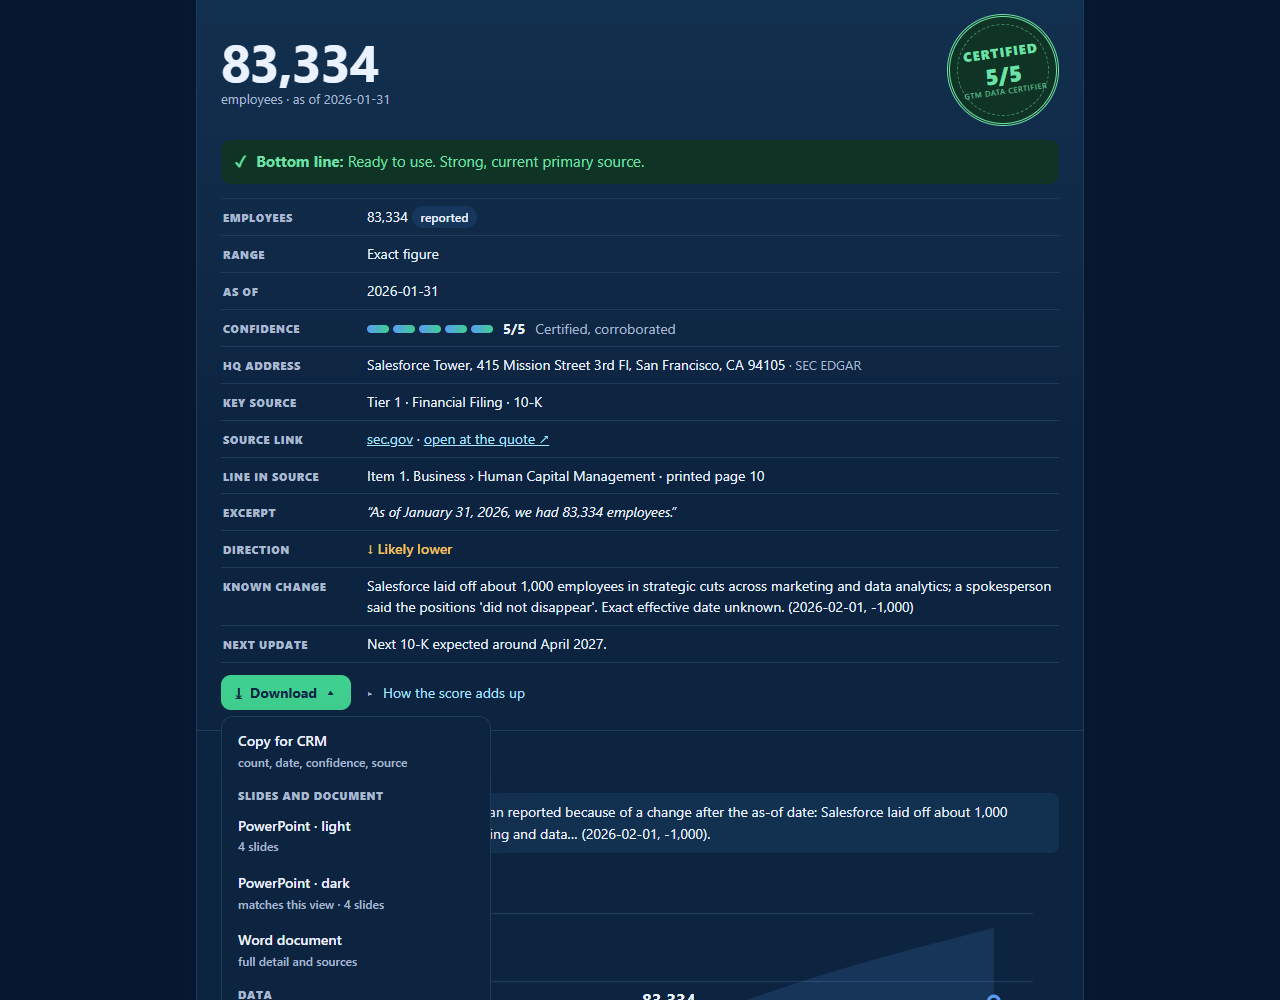
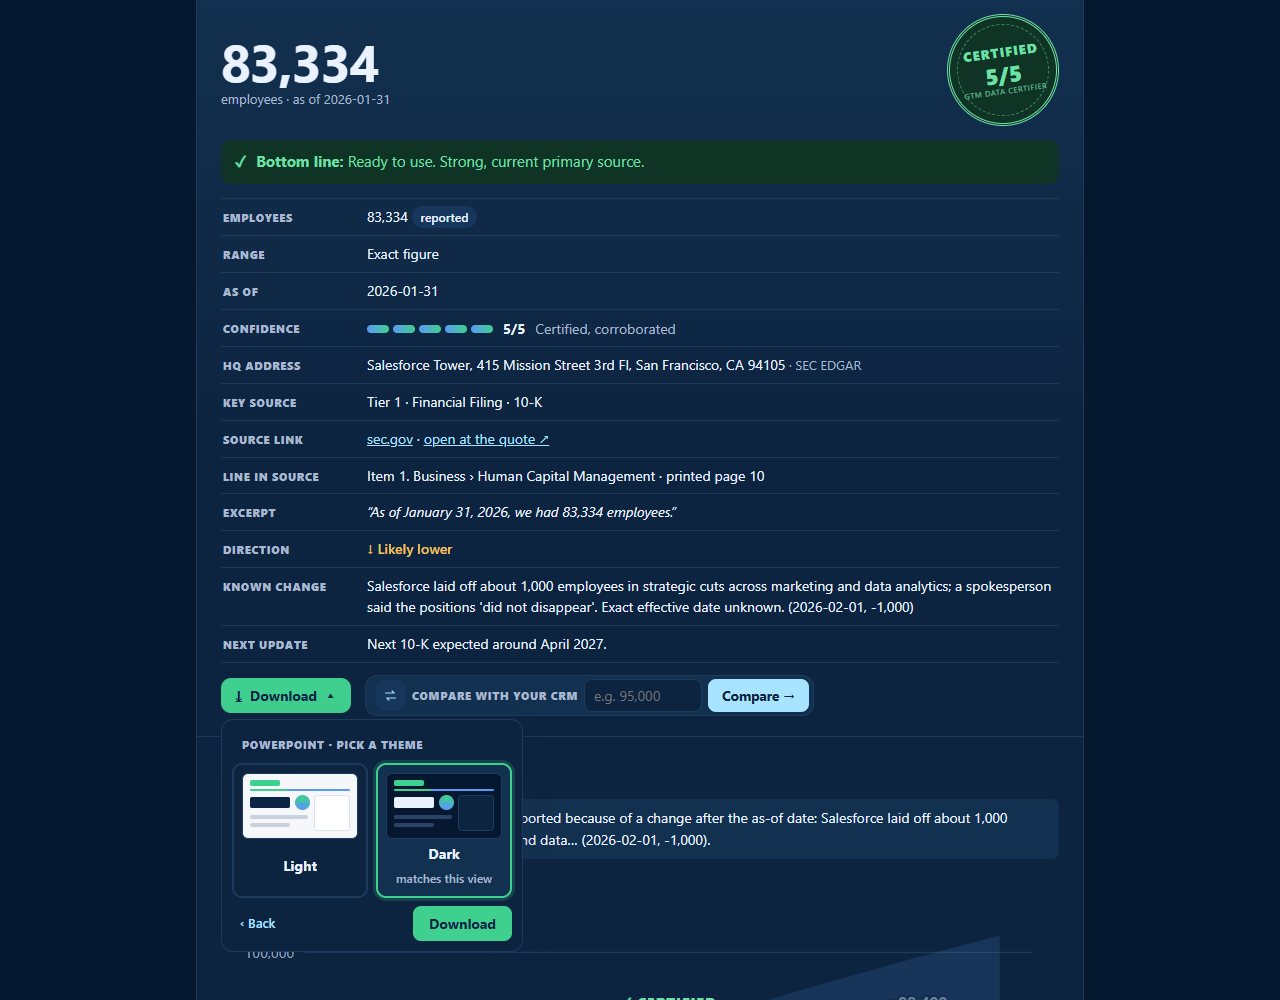
Download menu: short list (PowerPoint, CSV, JSON, Copy for CRM, Word greyed out) with a second step for theme previews or CSV file

diff --git a/src/certifier/card.py b/src/certifier/card.py
@@ -223,6 +223,37 @@ CARD_CSS = r"""
   padding: 7px 10px; border-radius: 8px; font-size: 14px; font-weight: 600; }
 .cert .dl-items button:hover, .cert .dl-items button:focus-visible { background: var(--soft); }
 .cert .dl-hint { font-size: 12px; font-weight: 500; color: var(--muted); }
+.cert .dl-label { display: flex; align-items: center; justify-content: space-between; gap: 8px; }
+.cert .dl-more { color: var(--muted); font-size: 16px; line-height: 1; }
+.cert .dl-items button.dl-disabled { opacity: .45; cursor: not-allowed; }
+.cert .dl-items button.dl-disabled:hover { background: transparent; }
+.cert .dl-items.step2 { min-width: 300px; gap: 8px; padding: 10px; }
+.cert .dl-choices { display: grid; grid-template-columns: 1fr 1fr; gap: 8px; }
+.cert .dl-items .dl-choice { display: grid; justify-items: center; gap: 4px; padding: 8px; border: 2px solid var(--line); border-radius: 10px;
+  text-align: center; }
+.cert .dl-items .dl-choice.on { border-color: var(--loop-green); background: var(--soft); box-shadow: 0 0 0 3px rgba(63, 207, 142, .18); }
+.cert .dl-choice-label { font-weight: 700; font-size: 14px; }
+.cert .dl-step-actions { display: flex; justify-content: space-between; align-items: center; gap: 8px; }
+.cert .dl-items .dl-back { color: var(--accent); font-weight: 600; font-size: 13px; padding: 6px 8px; }
+.cert .dl-items .dl-go { display: inline-block; background: var(--primary-bg); color: var(--primary-text); font-weight: 700; padding: 7px 16px; }
+.cert .dl-items .dl-go:hover { background: var(--primary-bg); filter: brightness(1.08); }
+.cert .dl-thumb { position: relative; display: block; width: 116px; height: 66px; border-radius: 6px; overflow: hidden; border: 1px solid var(--line); }
+.cert .dl-thumb.light { background: #F5F7FB; }
+.cert .dl-thumb.dark { background: #06182F; }
+.cert .dl-thumb i { position: absolute; display: block; border-radius: 2px; }
+.cert .dl-thumb .t-head { left: 7px; top: 6px; width: 30px; height: 6px; background: #3FCF8E; }
+.cert .dl-thumb .t-rule { left: 7px; right: 7px; top: 15px; height: 2px; background: linear-gradient(90deg, #3FCF8E 37%, #599AF5 37%); }
+.cert .dl-thumb .t-num { left: 7px; top: 23px; width: 40px; height: 11px; }
+.cert .dl-thumb.light .t-num { background: #0A2545; }
+.cert .dl-thumb.dark .t-num { background: #EAF2FF; }
+.cert .dl-thumb .t-seal { left: 52px; top: 21px; width: 15px; height: 15px; border-radius: 50%; background: conic-gradient(#3FCF8E, #599AF5, #3FCF8E); }
+.cert .dl-thumb .t-line { left: 7px; top: 41px; width: 58px; height: 4px; }
+.cert .dl-thumb .t-line.short { top: 49px; width: 40px; }
+.cert .dl-thumb.light .t-line { background: #C9D3E0; }
+.cert .dl-thumb.dark .t-line { background: #2A4468; }
+.cert .dl-thumb .t-panel { right: 7px; top: 21px; width: 36px; height: 36px; border-radius: 4px; }
+.cert .dl-thumb.light .t-panel { background: #FFFFFF; border: 1px solid #DCE3EC; }
+.cert .dl-thumb.dark .t-panel { background: #0D2440; border: 1px solid #1E3A5C; }
 .cert .dl-group { margin: 6px 10px 2px; font-size: 11px; font-weight: 800; letter-spacing: .06em; text-transform: uppercase; color: var(--muted); }
 .cert .footer-actions { margin-top: 12px; }
 .cert .owner-notice { margin: 12px 0 0; font-size: 11px; line-height: 1.45; color: var(--muted); }
@@ -554,36 +585,83 @@ CARD_JS = r"""
     var a = el("a", { href: url, download: "", target: "_blank", rel: "noopener" });
     document.body.appendChild(a); a.click(); a.remove();
   }
+  // A short list; PowerPoint and CSV open a second step to pick the theme (with previews) or the file.
+  function slidePreview(theme) {
+    return el("span", { cls: "dl-thumb " + theme, "aria-hidden": "true" }, [
+      el("i", { cls: "t-head" }), el("i", { cls: "t-rule" }), el("i", { cls: "t-num" }), el("i", { cls: "t-seal" }),
+      el("i", { cls: "t-line" }), el("i", { cls: "t-line short" }), el("i", { cls: "t-panel" })]);
+  }
   function downloadMenu(r, opts) {
     var menu = el("details", { cls: "dl-menu" });
-    var label = el("span", { text: "Download" });
     menu.appendChild(el("summary", { cls: "dl-button", "aria-label": "Download or copy this certification" },
-      [el("span", { cls: "dl-ico", "aria-hidden": "true", text: "⤓" }), label, el("span", { cls: "dl-caret", "aria-hidden": "true", text: "▾" })]));
+      [el("span", { cls: "dl-ico", "aria-hidden": "true", text: "⤓" }), el("span", { text: "Download" }),
+        el("span", { cls: "dl-caret", "aria-hidden": "true", text: "▾" })]));
     var list = el("div", { cls: "dl-items", role: "menu" });
-    function item(text, hint, fn) {
-      var b = el("button", { type: "button", role: "menuitem" }, [el("span", { text: text }), hint ? el("span", { cls: "dl-hint", text: hint }) : null]);
-      b.addEventListener("click", function () { fn(b); });
-      list.appendChild(b);
+    var has = exportUrl(r, opts, "json") != null;
+    function close() { menu.open = false; }
+    function item(text, hint, fn, more) {
+      var b = el("button", { type: "button", role: "menuitem" }, [el("span", { cls: "dl-label" }, [text, more ? el("span", { cls: "dl-more", "aria-hidden": "true", text: "›" }) : null]),
+        hint ? el("span", { cls: "dl-hint", text: hint }) : null]);
+      if (fn) b.addEventListener("click", function (e) { e.stopPropagation(); fn(b); });
       return b;
     }
-    item("Copy for CRM", "count, date, confidence, source", function (b) {
-      copyText(crmText(r), b.firstChild, "Copy for CRM");
-    });
-    var theme = pageTheme(), has = exportUrl(r, opts, "json") != null;
-    if (has) {
-      list.appendChild(el("p", { cls: "dl-group", text: "Slides and document" }));
-      ["light", "dark"].forEach(function (t) {
-        item("PowerPoint · " + t, t === theme ? "matches this view · 5 slides" : "5 slides", function () { openUrl(exportUrl(r, opts, "pptx", t)); menu.open = false; });
+    // Step 2: a small chooser in place of the list, with Back and Download.
+    function chooser(title, options, preselect, onGo) {
+      var picked = preselect, tiles = [];
+      var go = el("button", { type: "button", cls: "dl-go", text: "Download" });
+      var back = el("button", { type: "button", cls: "dl-back", text: "‹ Back" });
+      var grid = el("div", { cls: "dl-choices", role: "radiogroup", "aria-label": title });
+      options.forEach(function (o) {
+        var tile = el("button", { type: "button", role: "radio", cls: "dl-choice" }, [o.preview || null,
+          el("span", { cls: "dl-choice-label", text: o.label }), o.hint ? el("span", { cls: "dl-hint", text: o.hint }) : null]);
+        tile.addEventListener("click", function (e) { e.stopPropagation(); picked = o.value; paint(); });
+        tile.__value = o.value;
+        tiles.push(tile);
+        grid.appendChild(tile);
       });
-      item("Word document", "full detail and sources", function () { openUrl(exportUrl(r, opts, "docx")); menu.open = false; });
-      list.appendChild(el("p", { cls: "dl-group", text: "Data" }));
-      item("CSV · summary", "one row", function () { openUrl(exportUrl(r, opts, "summary_csv")); menu.open = false; });
-      item("CSV · sources", "one row per source", function () { openUrl(exportUrl(r, opts, "sources_csv")); menu.open = false; });
-      item("JSON · full record", null, function () { openUrl(exportUrl(r, opts, "json")); menu.open = false; });
-    } else {
-      item("JSON · full record", null, function () { download([r]); menu.open = false; });
+      function paint() { tiles.forEach(function (t) { var on = t.__value === picked; t.classList.toggle("on", on); t.setAttribute("aria-checked", on ? "true" : "false"); }); }
+      paint();
+      back.addEventListener("click", function (e) { e.stopPropagation(); showList(); });
+      go.addEventListener("click", function (e) { e.stopPropagation(); onGo(picked); close(); });
+      list.textContent = "";
+      list.classList.add("step2");
+      list.appendChild(el("p", { cls: "dl-group", text: title }));
+      list.appendChild(grid);
+      list.appendChild(el("div", { cls: "dl-step-actions" }, [back, go]));
+      (tiles.filter(function (t) { return t.__value === picked; })[0] || go).focus();
     }
+    function showList() {
+      list.textContent = "";
+      list.classList.remove("step2");
+      if (has) {
+        list.appendChild(item("PowerPoint", "5 slides · light or dark", function () {
+          chooser("PowerPoint · pick a theme", [
+            { value: "light", label: "Light", hint: pageTheme() === "light" ? "matches this view" : null, preview: slidePreview("light") },
+            { value: "dark", label: "Dark", hint: pageTheme() === "dark" ? "matches this view" : null, preview: slidePreview("dark") }],
+            pageTheme(), function (t) { openUrl(exportUrl(r, opts, "pptx", t)); });
+        }, true));
+        list.appendChild(item("CSV", "summary or sources", function () {
+          chooser("CSV · pick a file", [
+            { value: "summary_csv", label: "Summary", hint: "one row" },
+            { value: "sources_csv", label: "Sources", hint: "one row per source" }],
+            "summary_csv", function (f) { openUrl(exportUrl(r, opts, f)); });
+        }, true));
+        list.appendChild(item("JSON", "the full certification record", function () { openUrl(exportUrl(r, opts, "json")); close(); }));
+      } else {
+        list.appendChild(item("JSON", "the full certification record", function () { download([r]); close(); }));
+      }
+      list.appendChild(item("Copy for CRM", "count, date, confidence, source", function (b) {
+        copyText(crmText(r), b.querySelector(".dl-label"), "Copy for CRM");
+      }));
+      var word = item("Word document", "coming soon", null);
+      word.disabled = true;
+      word.setAttribute("aria-disabled", "true");
+      word.classList.add("dl-disabled");
+      list.appendChild(word);
+    }
+    showList();
     menu.appendChild(list);
+    menu.addEventListener("toggle", function () { if (!menu.open) showList(); });
     document.addEventListener("click", function (e) { if (menu.open && !menu.contains(e.target)) menu.open = false; });
     document.addEventListener("keydown", function (e) { if (e.key === "Escape" && menu.open) { menu.open = false; menu.querySelector("summary").focus(); } });
     return menu;

diff --git a/README.md b/README.md
@@ -143,7 +143,7 @@ From top to bottom:
    ![Compare with your CRM on the trend chart](docs/screenshots/14-chart-crm-overlay-light.png)
 8. **Key source, sources, adjustments, events:** the full evidence: every source found, used or excluded and why, with
    the detailed passage and location.
-9. **Download** (top and bottom of the card, and in Claude): Copy for CRM, a **5-slide PowerPoint** (light or dark, in the brand, with the company's name and logo on every slide and a closing thank-you slide), a **Word document** with the full supporting detail, a summary CSV, a sources CSV, and JSON (the full certification record).
+9. **Download** (top and bottom of the card, and in Claude): a short list, PowerPoint, CSV, JSON and Copy for CRM (PowerPoint then asks light or dark, with previews, defaulting to your view; CSV asks summary or sources). The Word document is shown greyed out for now. The deck is a **5-slide PowerPoint** (light or dark, in the brand, with the company's name and logo on every slide and a closing thank-you slide), a **Word document** with the full supporting detail, a summary CSV, a sources CSV, and JSON (the full certification record).
 
 ---
 

diff --git a/DECISIONS.md b/DECISIONS.md
@@ -797,3 +797,8 @@ The record's entity carries `address` and `address_source`, shown as **HQ addres
   just replicate what humans do. It should elevate human needs and outcomes.", the loop, Matthew's LinkedIn card
   (clickable) and two buttons, Connect on LinkedIn and Try GTM Data Certifier.
 - Buttons are clickable shapes rather than linked text: PowerPoint recolours linked text with the theme's link colour.
+
+### D103. A shorter Download menu with a second step
+- The list is PowerPoint, CSV, JSON, Copy for CRM, then the Word document greyed out ("coming soon").
+- PowerPoint opens a second step with light and dark slide previews, preselecting the theme you're viewing; CSV opens
+  Summary (the default) or Sources. Each has Back and Download. Closing the menu returns it to the list.
